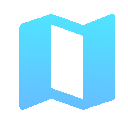
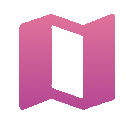
Updated resources for master

diff --git a/css/configs.css b/css/configs.css
@@ -7,29 +7,29 @@ Change these colors or fonts according to your needs*/
     --subBgST : #292e394d;
     --c_white : #dfdfdf;
     --c_whiteST : #ffffffb3;
-    --accentColor : #2196f3;
-    --accentColorST : #2195f369;
-    --l-accentColor : #43B4FF;
+    --accentColor : #39ffd4;
+    --accentColorST : #39ffd469;
+    --l-accentColor : #84a1ff;
 
     --dirty: #757575;
     --dirty-light: #a3a3a3;
 
 
-    --gradientColor1 : #54dcff;
-    --gradientColor2 : #68bbff;
-    --gradientColor3 : #ffa754;
-    --gradientColor4 : #ff7268;
+    --gradientColor1 : #ff39de;
+    --gradientColor2 : #b639ff;
+    --gradientColor3 : #39ffd4;
+    --gradientColor4 : #84a1ff;
     --gradientColor5 : #FFFFFF;
 
 
     --purple: #987bff;
     --purple-dark: #592bff;
 
-    --orange: #FF5722;
-    --orange-dark: #801e00;
+    --orange: #ff9ea2;
+    --orange-dark: #ff3943;
 
-    --orange2: #FF9800;
-    --orange2-dark: #a16100;
+    --orange2: #6797ff;
+    --orange2-dark: #2351b4;
 
     --green: #8BC34A;
     --green-dark: #458100;
